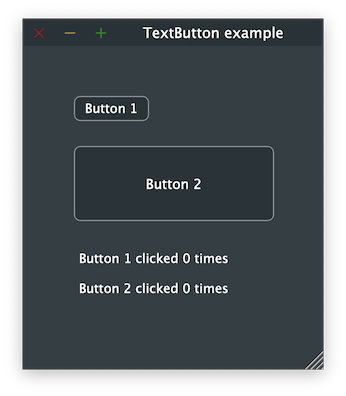
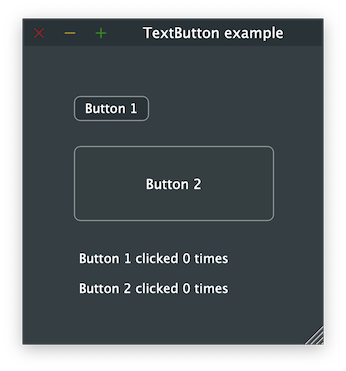
Update TextButton example

diff --git a/juce_gui_basics/Buttons/TextButton/src/TextButton.cpp b/juce_gui_basics/Buttons/TextButton/src/TextButton.cpp
@@ -1,10 +1,10 @@
 #include <JuceHeader.h>
 
-namespace ProgressBarExample {
+namespace TextButtonExample {
   class Window1 : public DocumentWindow {
   public:
     Window1() : DocumentWindow {"TextButton example", Desktop::getInstance().getDefaultLookAndFeel().findColour(ResizableWindow::backgroundColourId), DocumentWindow::allButtons} {
-      setBounds(200, 100, 300, 350);
+      setBounds(200, 100, 300, 325);
       setContentOwned(&mainComponent, false);
       setResizable(true, true);
       
@@ -58,4 +58,4 @@ namespace ProgressBarExample {
   };
 }
 
-START_JUCE_APPLICATION(ProgressBarExample::Application)
+START_JUCE_APPLICATION(TextButtonExample::Application)
